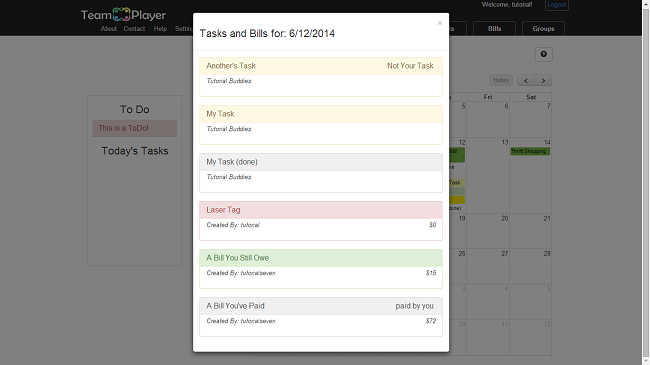
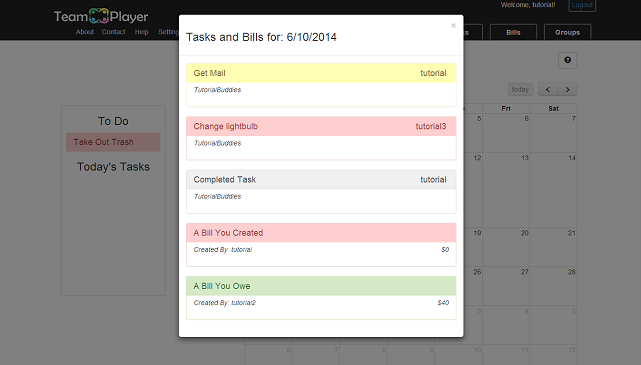
updated UI and gruop status reports

diff --git a/public/devteam.html b/public/devteam.html
@@ -154,8 +154,6 @@ Panji Wisesa         panjiw   (at) uw (dot) edu</pre>
 
               	<hr>
               
-
-                <h2>Weekly Team Status Reports</h2>
                 <h4>Weekly Status Report #2, 4/22/14</h4>
 
                 <h5>Goal from last week:</h5>
@@ -204,9 +202,6 @@ Panji Wisesa         panjiw   (at) uw (dot) edu</pre>
 
                 <hr>
               
-
-
-                <h2>Weekly Team Status Reports</h2>
                 <h4>Weekly Status Report #3, 4/29/14</h4>
 
                 <h5>Goal from last week:</h5>
@@ -238,9 +233,6 @@ Panji Wisesa         panjiw   (at) uw (dot) edu</pre>
                 <hr>
               
 
-
-
-                <h2>Weekly Team Status Reports</h2>
                 <h4>Weekly Status Report #4, 5/6/14</h4>
 
                 <h5>Goal from last week:</h5>
@@ -270,9 +262,6 @@ Panji Wisesa         panjiw   (at) uw (dot) edu</pre>
                 <hr>
               
 
-
-
-                <h2>Weekly Team Status Reports</h2>
                 <h4>Weekly Status Report #5, 5/12/14</h4>
 
                 <h5>Goal from last week:</h5>
@@ -304,6 +293,142 @@ Panji Wisesa         panjiw   (at) uw (dot) edu</pre>
                   <li>integrate front ends and back ends</li>
                   <li>get click and view events to work correctly</li>
                 </ol>
+
+                <hr>
+
+              <h4>Weekly Status Report #6, 5/20/14</h4>
+
+                <h5>Goal from last week:</h5>
+               <ol>
+                  <li>Beta release due on Friday! it will include create/store/view of all groups, bills and tasks</li>
+                  <li>Link all documentation to website</li>
+                  <li>update SDS and other documents</li>
+                  <li>include documentation in repo</li>
+                  <li>fix areas mentioned in our ZFR comments from TA</li>
+                  <li>Users can create and view tasks and bills</li>
+                  <li>need to get date picker calendar working</li>
+                  <li>integrate front ends and back ends</li>
+                  <li>get click and view events to work correctly</li>
+                </ol>
+
+                <h5>Progress made this past week:</h5>
+                <ol>
+                  <li>Features accomplished:</li>
+                    <ul>
+                      <li>create/view groups</li>
+                      <li>create bills</li>
+                        <ul>
+                          <li>can see the ones you owe</li>
+                          <li>can see the ones people owe you</li>
+                        </ul>
+                      </ul>
+                  <li>documentation now in html or web doc instead of google docs</li>
+                  
+                </ol>
+                
+                <h5>Goals for following week:</h5>
+                <ol>
+                  <li> Overall, the goal is to finish the major features of our app. We have decided to cut a few features, but we would like to do the ones we can well.</li>
+                  <li>User should be able to edit tasks, bills (mark as finished), groups (can leave)</li>
+                  <li>Make events display on calendar and clicking on a date should provide information about all events on that date</li>
+                  <li> Make ToDo’s appear on home page</li>
+                  <li>Include list of summary of tasks and bills a user has created</li>
+                  <li>Make cycling work (back end)</li>
+                  <li>Create Help tutorial (using modals)</li>
+                </ol>
+
+              <hr>
+
+              <h4>Weekly Status Report #7, 5/27/14</h4>
+
+                <h5>Goal from last week:</h5>
+               <ol>
+                  <li> Overall, the goal is to finish the major features of our app. We have decided to cut a few features, but we would like to do the ones we can well.</li>
+                  <li>User should be able to edit tasks, bills (mark as finished), groups (can leave)</li>
+                  <li>Make events display on calendar and clicking on a date should provide information about all events on that date</li>
+                  <li> Make ToDo’s appear on home page</li>
+                  <li>Include list of summary of tasks and bills a user has created</li>
+                  <li>Make cycling work (back end)</li>
+                  <li>Create Help tutorial (using modals)</li>
+                </ol>
+
+                <h5>Progress made this past week:</h5>
+                <ol>
+                  <li>This was a really busy week in terms of features. Here is what we got done this week:</li>
+                    <ul>
+                      <li>create/view groups</li>
+                      <li>create bills</li>
+                        <ul>
+                          <li>Edit tasks and bills</li>
+                          <li>Complete tasks and pay bills</li>
+                          <li>Edit/leave groups</li>
+                          <li>Made TODOs appear on homepag</li>
+                          <li>Made calendar view a thing</li>
+                          <li>Support for cycling tasks</li>
+                          <li>Finished creating tutorials for using the app</li>
+                        </ul>
+                      </ul>
+                  <li>Created Makefile for installing and deploying our app to Heroku</li>
+                  <li>Updated UML diagrams, and installation/deployment sections of developer docs</li>
+                  
+                </ol>
+                
+                <h5>Goals for following week:</h5>
+                <ol>
+                  <li>There are several minor bugs and details that were not completed last week. We plan to finish them first. Example: showing a task is late by displaying it as *red* on the calendar. </li>
+                  <li>The features are mostly done, but based on customer and instructor feedback, we plan on implementing several stretch features:</li>
+                    <ul>
+                      <li>Confirm groups before you are formally in them</li>
+                      <li>Confirm that a bill was actually paid to you</li>
+                      <li>Change a bill summary for each member to show bills you owe them, bills they owe you, and the net total</li>
+                    </ul>
+                  <li>Conduct extensive usability tests, especially with non-CSE friends. </li>
+                  <li> Make ToDo’s appear on home page</li>
+                  <li>Conduct code reviews to ensure that our code is understandable, documented, and well-designed</li>
+                  <li>Finish testing the backend and frontend functionality. </li>
+                </ol>
+
+                <hr>
+
+                
+                <h4>Weekly Status Report #8, 6/3/14</h4>
+
+                <h5>Goal from last week:</h5>
+               <ol>
+                  <li>There are several minor bugs and details that were not completed last week. We plan to finish them first. Example: showing a task is late by displaying it as *red* on the calendar. </li>
+                  <li>The features are mostly done, but based on customer and instructor feedback, we plan on implementing several stretch features:</li>
+                    <ul>
+                      <li>Confirm groups before you are formally in them</li>
+                      <li>Confirm that a bill was actually paid to you</li>
+                      <li>Change a bill summary for each member to show bills you owe them, bills they owe you, and the net total</li>
+                    </ul>
+                  <li>Conduct extensive usability tests, especially with non-CSE friends. </li>
+                  <li> Make ToDo’s appear on home page</li>
+                  <li>Conduct code reviews to ensure that our code is understandable, documented, and well-designed</li>
+                  <li>Finish testing the backend and frontend functionality. </li>
+                </ol>
+
+                <h5>Progress made this past week:</h5>
+                <ol>
+                  <li>New Features completed:</li>
+                    <ul>
+                      <li>Confirm groups before you are formally in them</li>
+                      <li>Combined the view of bills into one bill summary page</li>
+                      <li>Added a bill history page</li>
+                    </ul>
+                  <li>Fixed existing bugs and style issues across the web site</li>
+                  <li>Conducted 5 usability tests</li>
+                  <li>Conducted code reviews with our complicated code</li>
+                  
+                </ol>
+                
+                <h5>Goals for following week:</h5>
+                <ol>
+                  <li>Format viewing issues (ex. input boxes misaligned, color schemes), but otherwise the code is done</li>
+                  <li>Finish updating the SRS, SDS, the extensible assignment, and postmortem document</li>
+                  <li>Prepare for presentation--write the powerpoint slides, populate the database with reasonable data, and practice for it</li>
+                </ol>
+
 
                 <hr>
 

diff --git a/public/development.html b/public/development.html
@@ -203,8 +203,10 @@
                     <ul><img src="UIDiagrams/completedtaskview.png"/></ul></li>
                   <li><h4>Adding Tasks</h4>
                    <ul><img src="UIDiagrams/addingtaskview.png"/></ul></li>
-                  <li><h4>View Your Bills</h4>
+                  <li><h4>View Your Unpaid Bills</h4>
                    <ul><img src="UIDiagrams/billview.png"/></ul></li>
+                  <li><h4>View Your Bill History</h4>
+                   <ul><img src="UIDiagrams/billhistoryview.png"/></ul></li>
                   <li><h4>Adding Bills</h4>
                    <ul><img src="UIDiagrams/addingbillview.png"/></ul></li>
                   <li><h4>Adding Groups and Members</h4>
@@ -278,13 +280,6 @@
                         <ul>It took about a day to create tutorials for views, and another to maintain and keep them consistent. </ul>
                     </ul>
 
-                    If we were to implement additional features, they would take the following amount of time:<br>
-                    <ul>
-                      <li><b>Email notifications (3 days)</b></li>
-                        <ul></ul>
-                      <li><b>Snooze/Move events (2 days)</b></li>
-                        <ul></ul>
-                    </ul>
                   </p>
                   <br>
                   <h3>Feature Cuts</h3>

diff --git a/app/assets/javascripts/controllers/homeViewController.js b/app/assets/javascripts/controllers/homeViewController.js
@@ -343,7 +343,7 @@ angular.module('myapp').controller("homeViewController",
           } 
           //the bill has not been paid, pink
           else {
-            billColor = "<div class='panel panel-success'>" + 
+            billColor = "<div class='panel panel-danger'>" + 
                     "<div class='panel-heading'>" + 
                       "<div class='task-panel'>";
           }
@@ -359,7 +359,7 @@ angular.module('myapp').controller("homeViewController",
           } 
           //the bill has not been paid, green with pay button
           else {
-            billColor = "<div class='panel panel-danger'>" + 
+            billColor = "<div class='panel panel-success'>" + 
                     "<div class='panel-heading'>" + 
                       "<div class='task-panel'>";
             // paidTag = "<button class='btn btn-success btn-xs' ng-click='finishEvent()' data-dismiss='modal'>" +

diff --git a/public/srssds.html b/public/srssds.html
@@ -77,6 +77,7 @@
                   <li><a href="#betaRelease">Beta Release</a></li>
                   <li><a href="#featureCompleteRelease">Feature-Complete Release</a></li>
                   <li><a href="#featureRelease">Release Candidate</a></li>
+                  <li><a href="#finalRelease">Final Release</a></li>
               	</ul>
   				</div>
 
@@ -133,6 +134,14 @@
                   <li><a href="/documentation/OriginalDocuments/UsabilityEval.htm">Usability Evaluation</a><br>
                     <ul><li><i>Created May 30, 2014</i></ul></li>
                 </ul>
+
+                <hr>
+
+
+                <h2 id="finalRelease">Final Release</h2>
+                <p> 
+                  <i>"Requirements and Schedule Postmortem" added to the Home page, and "Extensibility Exercises" added to the Design Information page.</i>
+                </p>
 
 
 
